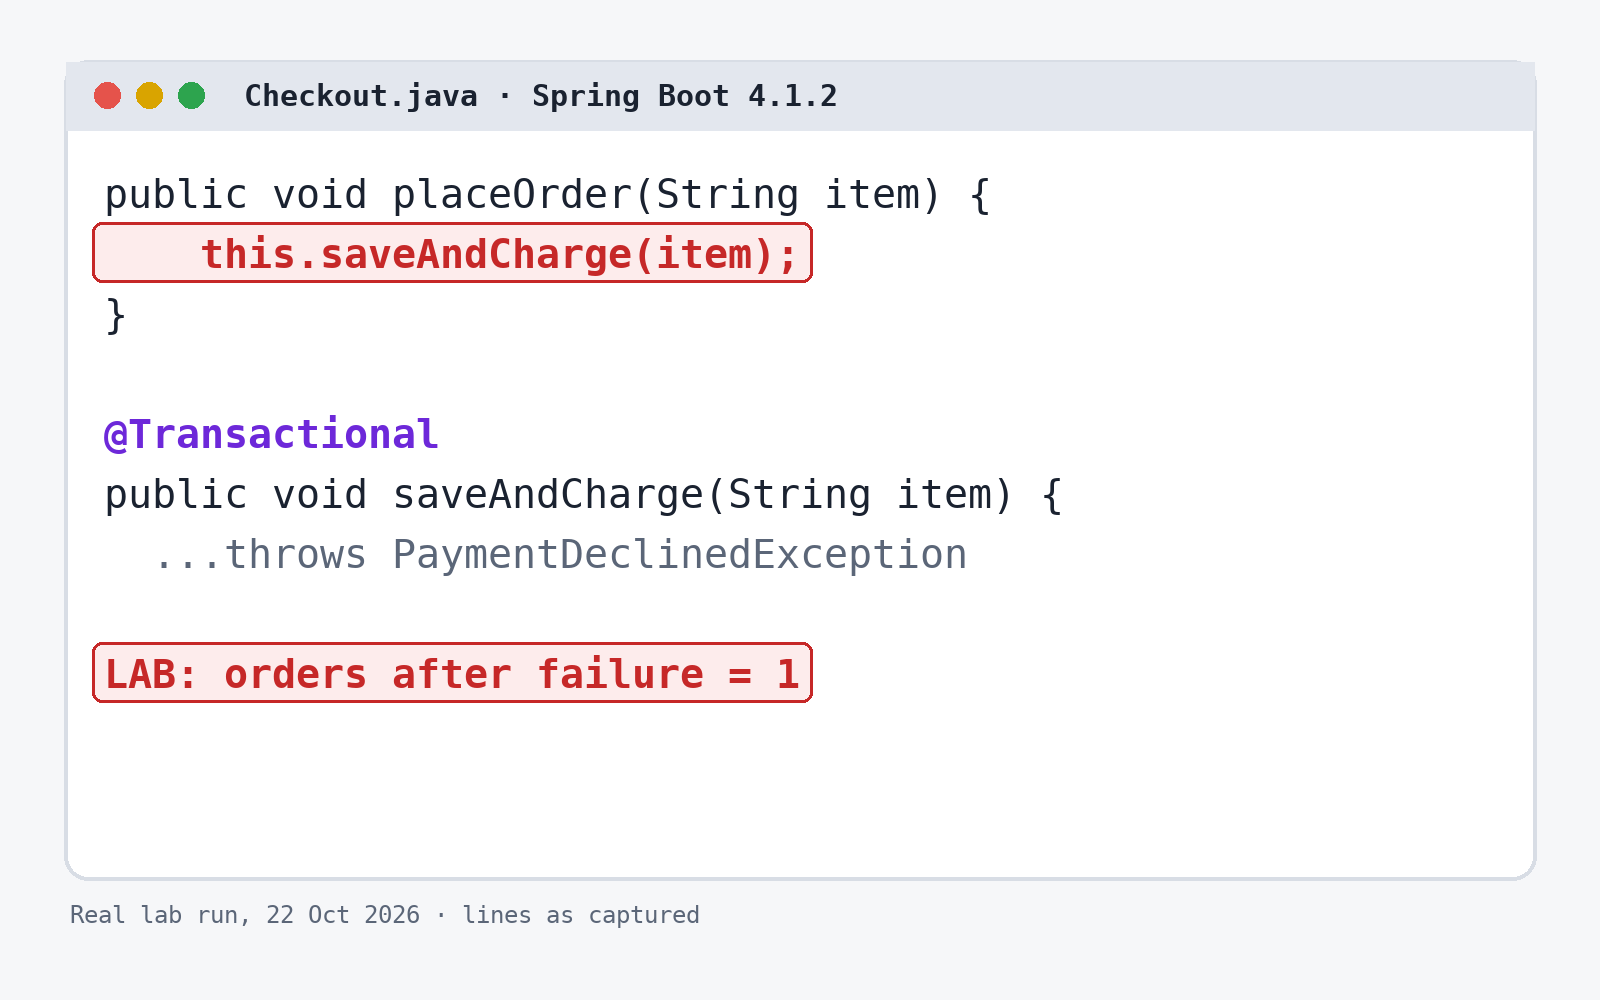
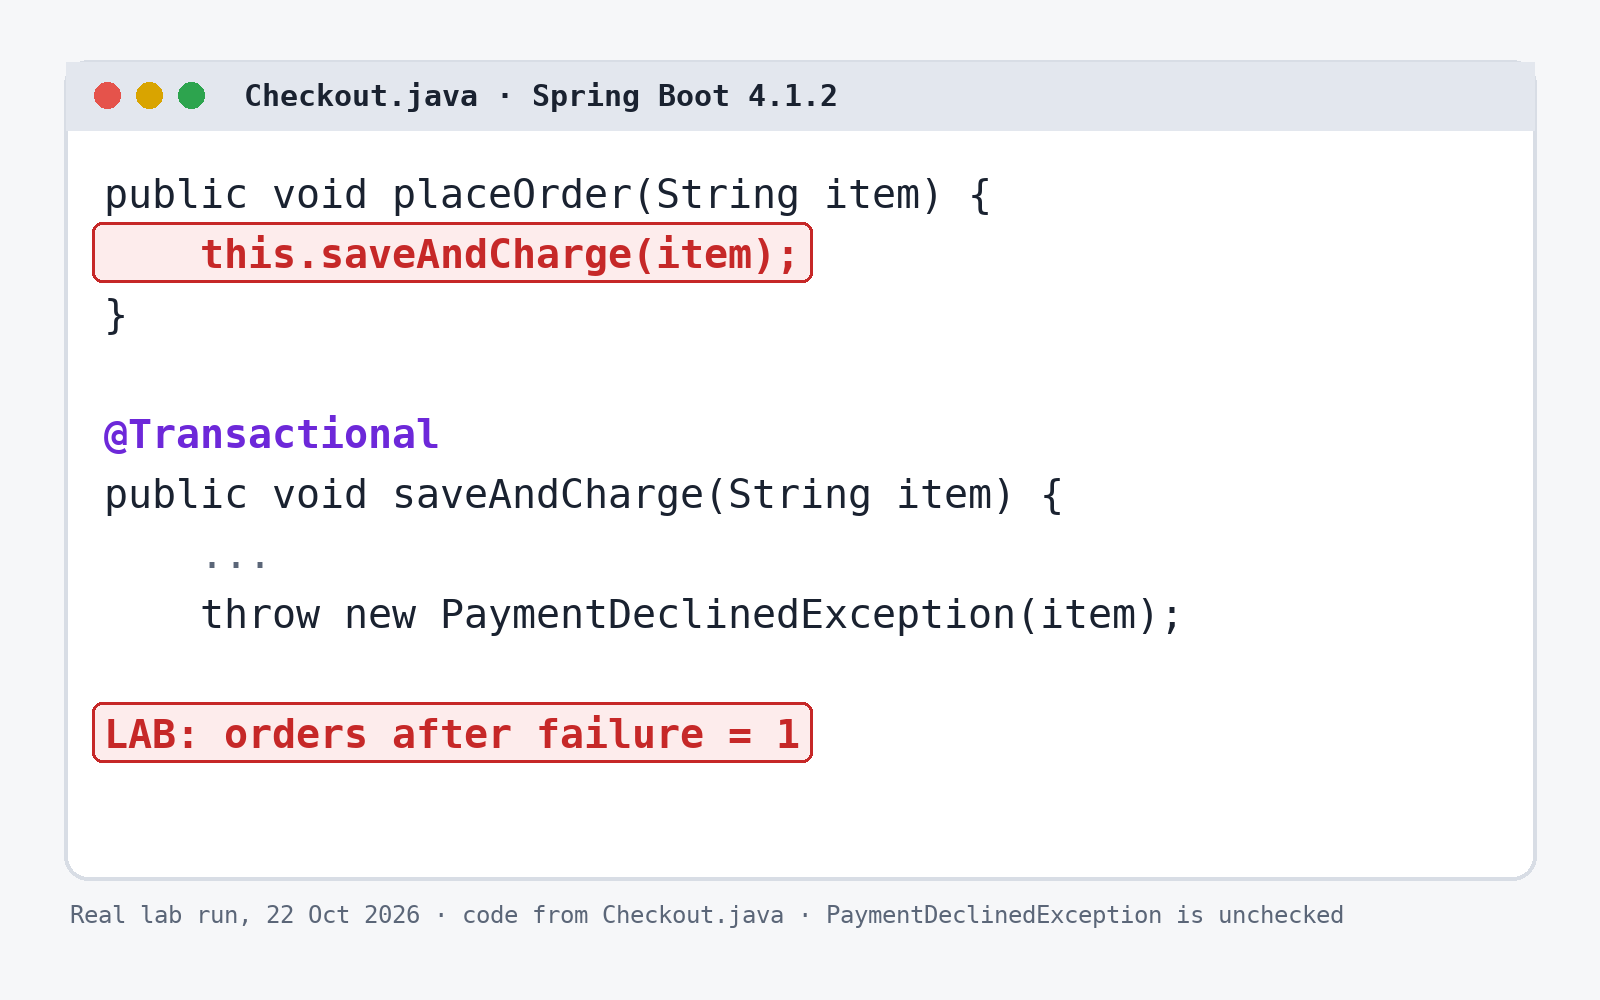
ep1 after the script gate: tags paired (insert / orders left), tag on the insert line, folds in plain words; follow-up replay annotation; frame 0 shows the real throw line, unchecked in the caption

Changed region(s): [[0.0625, 0.527, 0.7188, 0.775], [0.2812, 0.899, 0.8438, 0.93]]

diff --git a/ep1-transactional/video/make_frames.py b/ep1-transactional/video/make_frames.py
@@ -2,7 +2,7 @@
 - frames/hook-landscape.png (1600x1000): the intro slide's right half and the long video's hook overlay
 - frames/short-frame0.png (1080x1440): the Short's frame-0 overlay (above the caption band)
 - frames/thumb-base.png (1280x720): the thumbnail's evidence crop
-Sources: src/main/java/lab/trap/Checkout.java L21-26, evidence/replays/ep1-trap/run.jsonl (LAB: lines).
+Sources: src/main/java/lab/trap/Checkout.java L21-30, evidence/replays/ep1-trap/run.jsonl (LAB: lines).
 Run (no host installs): docker run --rm -v "<lab>:/lab" tsu-thumbs:0.1 python3 /lab/ep1-transactional/video/make_frames.py
 """
 import json
@@ -16,8 +16,9 @@ SANS_B = '/usr/share/fonts/truetype/dejavu/DejaVuSans-Bold.ttf'
 INK, RED, MUTED, BLUE, VIOLET = '#1a2230', '#c62828', '#5b6678', '#1d4ed8', '#6d28d9'
 
 src = open(os.path.join(EP, 'src/main/java/lab/trap/Checkout.java'), encoding='utf-8').read().splitlines()
-CODE = [src[i - 1][4:] for i in range(21, 27)]   # placeOrder + the annotated method's first lines, one indent level off
+CODE = [src[i - 1][4:] for i in range(21, 31)]   # placeOrder + saveAndCharge up to its throw, one indent level off
 assert CODE[1].strip() == 'this.saveAndCharge(item);' and CODE[4].strip() == '@Transactional', CODE
+assert CODE[9].strip() == 'throw new PaymentDeclinedException(item);', CODE
 run = [json.loads(l)['text'] for l in open(os.path.join(EP, 'evidence/replays/ep1-trap/run.jsonl'), encoding='utf-8')]
 THREW = next(t for t in run if t.startswith('LAB: placeOrder threw '))
 COUNT = next(t for t in run if t.startswith('LAB: orders after failure = '))
@@ -57,11 +58,11 @@ os.makedirs(out, exist_ok=True)
 code_rows = [(CODE[0], INK, False), (CODE[1], RED, True), (CODE[2], INK, False), ('', INK, False),
              (CODE[4], VIOLET, False), (CODE[5], INK, False)]
 card(os.path.join(out, 'hook-landscape.png'), 1600, 1000, 40, 'Checkout.java · Spring Boot 4.1.2',
-     'Real lab run, 22 Oct 2026 · lines as captured',
-     code_rows + [('  ...throws PaymentDeclinedException', MUTED, False), ('', INK, False), (COUNT, RED, True)])
+     'Real lab run, 22 Oct 2026 · code from Checkout.java · PaymentDeclinedException is unchecked',
+     code_rows + [('    ...', MUTED, False), (CODE[9], INK, False), ('', INK, False), (COUNT, RED, True)])
 card(os.path.join(out, 'short-frame0.png'), 1080, 1440, 36, 'Spring Boot 4.1.2 · real run',
      'Real lab run, 22 Oct 2026, as captured',
-     code_rows + [('', INK, False), ('...it threw. Then:', MUTED, False), (COUNT, RED, True), ('', INK, False),
+     code_rows + [('', INK, False), ('...threw a RuntimeException. Then:', MUTED, False), (COUNT, RED, True), ('', INK, False),
                   ('The row stayed. Why?', INK, False)])
 # thumbnail base: the outcome line only, big
 im = Image.new('RGB', (1280, 720), '#ffffff')
